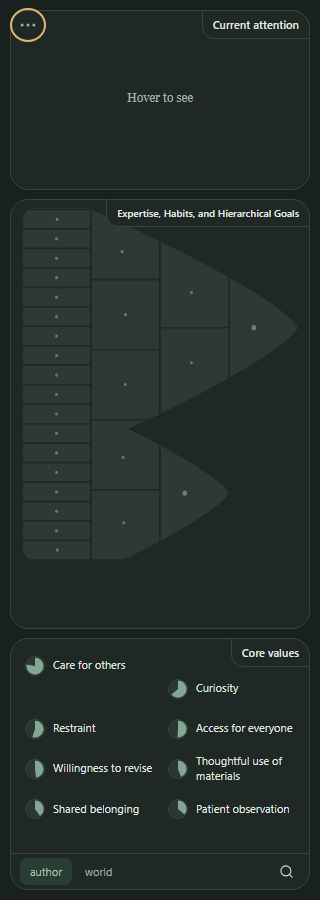
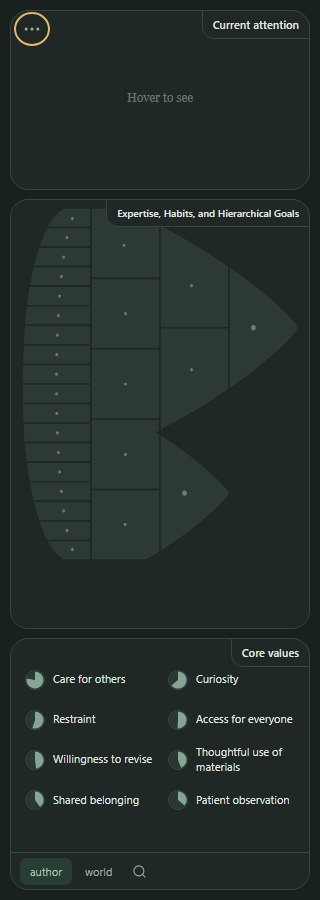
Polish panel spacing and teardrop curve, and record UX review

diff --git a/src/core/hierarchy.ts b/src/core/hierarchy.ts
@@ -116,17 +116,23 @@ export function hierarchyLayout(graph: GoalGraph, height = 300, width = 320) {
       (multi ? 0.34 + (i * 0.47) / Math.max(1, roots.length - 1) : 0.5),
     half: height * (multi ? (i === 0 ? 0.42 : 0.32) : 0.5),
   }));
+  // One broad elliptical back curves across the full left side. A fuller
+  // shoulder then tapers toward each existing end; parent links stay unchanged.
+  const bounds = (l: (typeof lobes)[number], x: number): Interval => {
+    const backWidth = Math.min(width * 0.17, cw * 0.7),
+      backHalf =
+        (height / 2) *
+        Math.sqrt(1 - Math.pow(Math.max(0, 1 - x / backWidth), 2)),
+      half = l.half * Math.pow(Math.max(0, 1 - Math.pow(x / l.end, 1.5)), 0.85);
+    return [
+      Math.max(height / 2 - backHalf, l.center - half),
+      Math.min(height / 2 + backHalf, l.center + half),
+    ];
+  };
   const slices = (x: number): Interval[] => {
-    const inset = x < 14 ? 14 - Math.sqrt(Math.max(0, 196 - (x - 14) ** 2)) : 0;
     const raw = lobes
       .filter((l) => x <= l.end)
-      .map((l) => {
-        const half = l.half * Math.pow(Math.max(0, 1 - x / l.end), 0.78);
-        return [
-          Math.max(inset, l.center - half),
-          Math.min(height - inset, l.center + half),
-        ] as Interval;
-      })
+      .map((l) => bounds(l, x))
       .filter(([a, b]) => b > a + 0.001)
       .sort((a, b) => a[0] - b[0]);
     const result: Interval[] = [];
@@ -140,12 +146,11 @@ export function hierarchyLayout(graph: GoalGraph, height = 300, width = 320) {
   const outline = lobes.map((l) => {
     const points = Array.from({ length: 81 }, (_, i) => {
       const x = (l.end * i) / 80,
-        inset = x < 14 ? 14 - Math.sqrt(Math.max(0, 196 - (x - 14) ** 2)) : 0;
-      const half = l.half * Math.pow(Math.max(0, 1 - x / l.end), 0.78);
+        [top, bottom] = bounds(l, x);
       return {
         x,
-        top: Math.max(inset, l.center - half),
-        bottom: Math.min(height - inset, l.center + half),
+        top,
+        bottom,
       };
     });
     return `M${points.map((p) => `${p.x},${p.top}`).join(" L")} L${[...points]

diff --git a/src/mind.css b/src/mind.css
@@ -66,8 +66,8 @@
 }
 .reader-content > .region > .section-heading .icon-button {
   position: absolute;
-  top: 3px;
-  left: 5px;
+  top: 7px;
+  left: 9px;
   width: 26px;
   height: 24px;
   background: var(--surface);
@@ -377,7 +377,8 @@
   display: grid;
   grid-template-columns: repeat(2, minmax(0, 1fr));
   gap: 3px 10px;
-  padding-top: 0;
+  padding-top: 14px;
+  align-items: center;
 }
 .value-hover {
   display: block;
@@ -614,6 +615,7 @@
   display: grid;
   place-items: center;
   color: var(--muted);
+  opacity: 0.55;
   font:
     12px Georgia,
     serif;
@@ -624,9 +626,6 @@
   overflow-y: auto;
   scrollbar-width: thin;
 }
-.value-hover:nth-child(2) {
-  padding-top: 23px;
-}
 .value-tabs {
   display: flex;
   align-items: center;
@@ -634,7 +633,7 @@
   margin: 8px -12px -12px;
   padding: 4px 10px;
   min-height: 36px;
-  gap: 8px;
+  gap: 3px;
 }
 .value-tabs [role="tablist"] {
   display: flex;
@@ -642,41 +641,46 @@
   gap: 3px;
   flex-shrink: 0;
 }
-.value-tabs [role="tab"] {
+.value-tabs [role="tab"],
+.value-tabs .search-toggle {
   padding: 6px 10px;
   color: var(--muted);
   font-size: 11px;
   border-radius: 7px;
 }
-.value-tabs [role="tab"][aria-selected="true"] {
+.value-tabs [role="tab"][aria-selected="true"],
+.value-tabs .search-toggle[aria-expanded="true"] {
   color: var(--green);
   background: var(--trace-soft);
 }
 .search-toggle {
-  margin-left: auto;
   display: grid;
   place-items: center;
-  width: 27px;
-  height: 26px;
+  flex-shrink: 0;
+  width: 29px;
+  height: 28px;
+}
+.value-tabs .search-toggle {
+  padding: 6px;
 }
 .value-search {
   display: flex;
   align-items: center;
   gap: 5px;
   flex: 1;
+  max-width: 170px;
   min-width: 0;
   color: var(--muted);
 }
 .value-search input {
   width: 100%;
   min-width: 0;
-  padding: 5px 3px;
+  padding: 6px 8px;
   margin: 0;
   font-size: 11px;
-  background: transparent;
+  background: var(--trace-soft);
   border: 0;
-  border-bottom: 1px solid var(--line);
-  border-radius: 0;
+  border-radius: 7px;
 }
 .value-search button {
   display: grid;

diff --git a/tests/frontend.spec.ts b/tests/frontend.spec.ts
@@ -432,14 +432,39 @@ test("corner headings, compact attention, expanded values and prototype tabs", a
     ).toBeLessThan(2);
   }
   await expect(page.locator(".core-value-row")).toHaveCount(8);
+  const rows = await page.locator(".core-value-row").evaluateAll((es) =>
+    es.map((e) => {
+      const r = e.getBoundingClientRect();
+      return r.y + r.height / 2;
+    }),
+  );
+  for (let i = 0; i < rows.length; i += 2)
+    expect(Math.abs(rows[i] - rows[i + 1])).toBeLessThan(1);
+  const menu = await page
+    .getByRole("button", { name: "Reader menu", exact: true })
+    .boundingBox();
+  expect(menu!.x - cloud!.x).toBeGreaterThanOrEqual(8);
+  expect(menu!.y - cloud!.y).toBeGreaterThanOrEqual(6);
   await page.getByRole("tab", { name: "world", exact: true }).click();
   await expect(page.getByRole("tabpanel")).toHaveText(
     "World view · coming later",
   );
   await page.getByRole("tab", { name: "author", exact: true }).click();
   await expect(page.locator(".core-value-row")).toHaveCount(8);
+  const world = await page
+    .getByRole("tab", { name: "world", exact: true })
+    .boundingBox();
+  const toggle = page.getByRole("button", { name: "Open search preview" });
+  const searchBefore = await toggle.boundingBox();
+  expect(searchBefore!.x - world!.x - world!.width).toBeGreaterThanOrEqual(0);
+  expect(searchBefore!.x - world!.x - world!.width).toBeLessThan(9);
   await page.getByRole("button", { name: "Open search preview" }).click();
   const search = page.getByRole("textbox", { name: "Search preview" });
+  const searchAfter = await toggle.boundingBox();
+  expect(searchAfter!.x).toBe(searchBefore!.x);
+  expect((await search.boundingBox())!.x).toBeGreaterThan(
+    searchAfter!.x + searchAfter!.width,
+  );
   await expect(search).toBeFocused();
   await search.fill("curiosity");
   const requests: string[] = [];

diff --git a/src/components/ValueTabs.tsx b/src/components/ValueTabs.tsx
@@ -31,15 +31,26 @@ export function ValueTabs({
           </button>
         ))}
       </div>
-      {search ? (
+      <button
+        ref={button}
+        className="search-toggle"
+        aria-label="Open search preview"
+        title="Search · interface preview"
+        aria-expanded={search}
+        aria-controls="values-search"
+        onClick={() => (search ? close() : setSearch(true))}
+      >
+        <Search size={15} aria-hidden="true" />
+      </button>
+      {search && (
         <form
+          id="values-search"
           className="value-search"
           onSubmit={(e) => {
             e.preventDefault();
             setSubmitted(true);
           }}
         >
-          <Search size={13} aria-hidden="true" />
           <input
             autoFocus
             aria-label="Search preview"
@@ -63,15 +74,6 @@ export function ValueTabs({
             {submitted ? "Search preview only. No query was sent." : ""}
           </span>
         </form>
-      ) : (
-        <button
-          ref={button}
-          className="search-toggle"
-          aria-label="Open search preview"
-          onClick={() => setSearch(true)}
-        >
-          <Search size={15} />
-        </button>
       )}
     </div>
   );

diff --git a/STATUS.md b/STATUS.md
@@ -1,12 +1,13 @@
 # ToMpathy status · 2026-10-11 · 0.4.0 alpha
 
-The third verbal design pass is implemented. The packaged build is `1272115bb534`. This remains a private **0.4.0 alpha**; the owner's intended future public release is **0.1 beta**, initially an empty frontend. No public release was made.
+The light visual refinement and subsequent UX walkthrough are complete. The packaged build is `2f49bc1d99b7`. This remains a private **0.4.0 alpha**; the owner's intended future public release is **0.1 beta**, initially an empty frontend. No public release was made.
 
 ## Current design
 
+- The idle attention cue now renders at 55% opacity. The Reader menu moves 4px inward horizontally and vertically so its focus circle has room. Search remains beside world as a third tab-like control and opens its input to the right. Both values columns share aligned row centers.
 - Exactly three boxes. Titles occupy rounded top-right corners; the Reader menu sits at top left. Content uses the top area around these controls instead of a reserved header band.
 - **Current attention:** about half the previous height (180px at a 900px viewport). At rest it displays only **Hover to see**. Its data is independent of the goal graph. The demo changes its leading phrase across sentences; new words grow from small to full size while shared words shift into space. Size reflects supplied support, with a wide range. Reduced motion and list fallback remain available.
-- **Expertise, Habits, and Hierarchical Goals:** one continuous outline with a rounded broad left edge and two peaks ending at different depths. Shared subgoals reach both ends. Brick rows partition the actual widest visible edge so all 27 demo nodes remain usable, with no phantom slivers or discarded semantic nodes. Dots are centered within the visible area.
+- **Expertise, Habits, and Hierarchical Goals:** one continuous outline with an elliptical curve across the full broad left edge and fuller shoulders and two peaks ending at different depths. Shared subgoals reach both ends. Brick rows partition the actual widest visible edge so all 27 demo nodes retain their visible-edge threshold. The split-brick/branch-layout problem remains deferred at the owner’s request; see the UX findings below. Dots are centered within the visible area.
 - Reels are 42px high, sufficient for two lines, and remain below the chart. No gray node caption remains. A hovered brick glows at the corresponding reel. Ambiguous descendants, ancestors and early endings can appear on either side of an exact selection.
 - Clicking text or a brick locks the selection. Attention and reels remain fixed through incidental hovering; wheel/keyboard reel navigation deliberately selects a new node. The same green SVG lock appears on the source and overlaps the far-right reel corner. Either lock or Escape clears selection. Sentence bricks supply that sentence's attention; parent bricks leave it at the idle cue.
 - **Core values:** a larger two-column area (252px at a 900px viewport), eight demo values in four rows, still capped at nine supplied hypotheses. Passive evidence tooltips and full details remain. Bottom **author** and **world** tabs work; world is an explicit placeholder. Search expands, accepts text and Enter, and closes with its button or Escape. It sends no query.
@@ -17,9 +18,26 @@ The third verbal design pass is implemented. The packaged build is `1272115bb534
 - TypeScript/build and **17 core tests** passed: legacy acceptance, separate attention ranges and invalid references, multiple parents, cycles, depth limits, reel ambiguity, and visible-edge/dot geometry at three heights.
 - **12 browser/adapter flows** passed: shifting attention and retained phrase identities, locking and both release controls, within-sentence snapshots, wheel/keyboard navigation, compact geometry, cloud collision/font range, eight values and top-nine limit, tabs/search, deeper unnamed hierarchies, narrow/dark/reduced-motion/200% zoom, imports, revisions, text selection and page cleanup.
 - Ordinary **Google Chrome 154.0.8037.98** exercised the real 360px native panel beside its source: independent attention, two peaks, linked highlights, both green lock controls, bidirectional ambiguity, compact reels, evidence, tabs/search, installation, normal HTTP activeTab capture and full-restart restoration. No page-script errors were recorded. `evidence/review-validation.json` records its exact build.
-- Native **Chromium 153.0.8010.12** passed close/reopen cleanup, worker-stop recovery, tab-return recapture, revision retention and a 1,006-passage fixture. Twelve local hover-to-panel frame samples were 14–29.2ms while another browser check was running; this is a small local observation, not a performance guarantee. See `evidence/native-validation.json`.
+- In the preceding pass, native **Chromium 153.0.8010.12** passed close/reopen cleanup, worker-stop recovery, tab-return recapture, revision retention and a 1,006-passage fixture. Twelve local hover-to-panel frame samples were 14–29.2ms while another browser check was running; this is a small local observation, not a performance guarantee. See `evidence/native-validation.json`.
 - Screenshots were inspected for light/dark layout, the two peaks, attention, locks, search and passive tooltips. `tompathy-0.4.0.zip` matches the built files and retains no permanent webpage host permissions; see `evidence/package-verification.json`.
 - A new preview test caught an inline-lock removal causing a synthetic hover to select the next sentence. Selection now responds to actual pointer movement, and the regression passes. Clicking inside a sentence also preserves the pointed attention frame instead of reverting to its first frame.
+
+## UX findings from this pass
+
+This was a heuristic task walkthrough in the actual ordinary-Chrome panel, supported by source inspection and the regression suite, not a participant study or a new assessment of the inference engine. The intended job is to let a reader explore the author's current attention, broader learned/hierarchical organization, and recurring preferences, then inspect the evidence without losing their place. The local project brief, the supplied theory/engine review, and relevant definitions in Sounding Line's `THE_TRIPLE_INFERENCE.md` informed that framing. The existing local checkout was available; no clone or scientific run was needed.
+
+Observed receipts and screenshots are in `evidence/ux-audit.json`, `ux-chrome-idle.png`, `ux-chrome-search.png`, `ux-shared-branch.png`, `ux-evidence-hover.png`, and `ux-list-fallback.png`.
+
+1. **Highest priority: make spatial relationships faithful.** The authored “Make inclusion tangible” node reaches both story and practical-care, then purpose. Those references are present and highlighted, but independent row partitioning does not reserve contiguous child bands for each parent. Adjacency and the outline can imply the wrong grouping. A future layout should allocate branch-aware child bands and, where a shared semantic node needs two placements, use distinct linked visual instances instead of one tile crossing the fork. Kept deferred in this pass, including the supplied graph relationships.
+2. **Make uncertainty inspectable.** The selected parent produces four possible sentence goals, two broader alternatives, and two possible endings. Blurring communicates ambiguity but hides the candidates. Compact reels also truncate labels such as “Make inclusion tangible.” Offer a click/focus expansion that lists full candidate names and evidence, retaining the compact reel at rest. Keep absence of an inference distinct from competing inferred alternatives and a path that has ended.
+3. **Preserve reading position when dismissing details.** The walkthrough pinned a sentence, opened a value's evidence, and pressed Escape. Both the evidence and the lock disappeared. Recommend that Escape first close the topmost overlay; a subsequent Escape or explicit green lock should release the source selection. This behavior was observed and left for the next interaction pass.
+4. **Teach the interaction without adding permanent chrome.** Moving from an unpinned sentence into the panel clears the cloud, so inspecting a phrase requires knowing to click first. A short optional first-use demonstration of hover → click to hold → inspect → unlock would preserve the requested idle cue and three-box design. Wheel navigation also needs a discoverable keyboard-equivalent explanation.
+5. **Provide a stable reading surface for long explanations.** The value hover card occupied about 45% of the 899px-tall panel and passes pointer events through. That preserves access to other rows, but moving toward the explanation can dismiss it or activate what lies underneath. Keep passive previews concise and make full evidence/help explicitly openable and dismissible. Existing click-to-open value evidence is a useful foundation; heading explanations need an equally obvious stable route. [W3C's hover/focus guidance](https://www.w3.org/WAI/WCAG22/Understanding/content-on-hover-or-focus.html) discusses these persistence, hoverability and dismissal needs. This is not a conformance certification.
+6. **Improve precision and legibility through an optional reading mode.** Observed attention text ranged roughly 8–30px; the smallest rectangular brick bounds were about 19.5px tall before clipping. Keep the expressive cloud, but offer local focus enlargement, branch zoom/keyboard traversal, and an easier-to-find readable view. The current list has all nodes but flattens their organization; nesting or a path display would make it a stronger alternative. [W3C's target-size guidance](https://www.w3.org/WAI/WCAG22/Understanding/target-size-minimum.html) gives a 24px baseline with defined exceptions, so dimensions alone are not a full compliance test.
+7. **Expose meaning where a user commits to an interpretation.** Preserve separate attention data and stable values. In detailed inspection, explicitly distinguish a local role, broader goal, learned capability/habit, and a proposed production event. The middle heading currently names more than the graph itself displays. Keep score semantics beside the enlarged wheel: relative support and calibrated reliability should not become visually interchangeable when the backend arrives. Author, source, revision and selected evidence scope should remain grouped in the existing menu/inspection surfaces, without adding a fourth panel.
+8. **Define the scope of world before connecting it.** Its current placement suggests a values-only switch; a future outside-context view or whole-reader world view would imply different behavior. Search is intentionally typing-only in this pass. Decide its eventual scope—values, hypotheses, source passages, or evidence—before making it perform a query.
+
+Recommended next order: branch-aware geometry; full candidate inspection and overlay dismissal; a brief first-use guide and readable/keyboard path. Then test with people who have not seen the walkthrough: identify a sentence's proposed attention, follow it to a broader goal, explain why an alternative remains possible, inspect a source, and return to the same selection. Observe errors and successful completion, and ask which outputs are supplied hypotheses rather than established facts. Comparison against a plain prose account can test whether the spatial reader improves understanding. These are proposed evaluations, not results.
 
 ## Review loop
 

diff --git a/README.md b/README.md
@@ -4,7 +4,7 @@ Version **0.4.0 alpha** has three panels: **Current attention**, **Expertise, Ha
 
 Current attention occupies about half its previous height and is independent of the goal hierarchy. At rest it says **Hover to see**. Hover a sentence or sentence brick: its strongest supplied attentional focus gathers near the center, new phrases grow into place, and shared phrases shift gently. The example deliberately changes its leading focus across sentences.
 
-The continuous, rounded hierarchy now has two peaks at different depths with shared subgoals. Compact two-line reels stay below it; ambiguous descendants, broader goals and earlier endings are blurred. Hovering a brick emphasizes its reel. Single-click text or a brick to lock; scroll over a reel to explore that level. Click either matching green lock, or press Escape, to release. Core values occupy a larger two-column area with eight demo items, capped at nine supplied hypotheses. Bottom tabs switch between **author** and a **world** placeholder; search expands into a typing-only prototype. It sends no query.
+The continuous, rounded hierarchy now has two peaks at different depths with shared subgoals. Compact two-line reels stay below it; ambiguous descendants, broader goals and earlier endings are blurred. Hovering a brick emphasizes its reel. Single-click text or a brick to lock; scroll over a reel to explore that level. Click either matching green lock, or press Escape, to release. Core values occupy a larger two-column area with eight demo items, capped at nine supplied hypotheses. Bottom tabs switch between **author** and a **world** placeholder; the adjacent search control expands a typing-only field to its right. It sends no query.
 
 The expertise heading includes an illustrated explanation and the creator's line about expertise as a lossy, compressed record of previous attentional focuses. The Reader menu keeps source identity, context, imports, earlier accounts, list view, maker selection, settings and Help.
 
@@ -122,4 +122,4 @@ Preferences persist locally. Captures, context and up to five earlier accepted a
 | `src/core/example.ts`, `examples/`               | Synthetic artifact, ambiguity, unknown history and explicit correction            |
 | `tests/`, `scripts/*validation.mjs`, `evidence/` | Repeatable checks and measured receipts                                           |
 
-See [STATUS.md](STATUS.md) for verification and remaining limitations. The original [project context](TOMPATHY_PROJECT_CONTEXT.md) remains the intent source.
+See [STATUS.md](STATUS.md) for verification, the UX review and remaining limitations. The original [project context](TOMPATHY_PROJECT_CONTEXT.md) remains the intent source.
